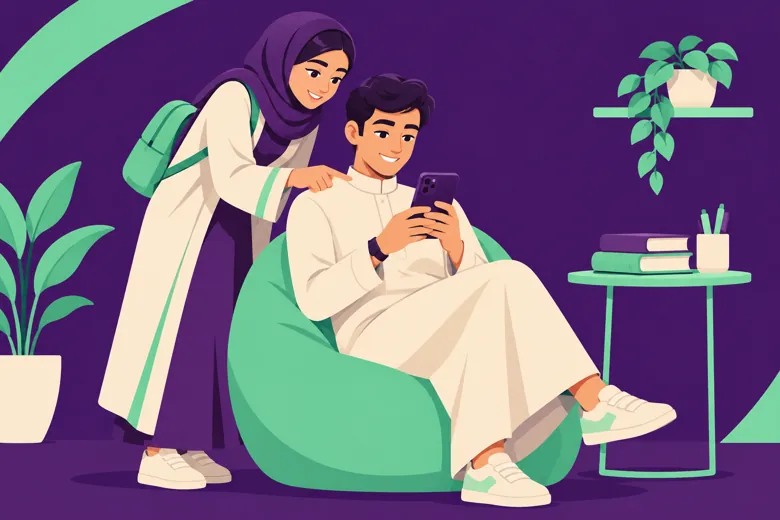
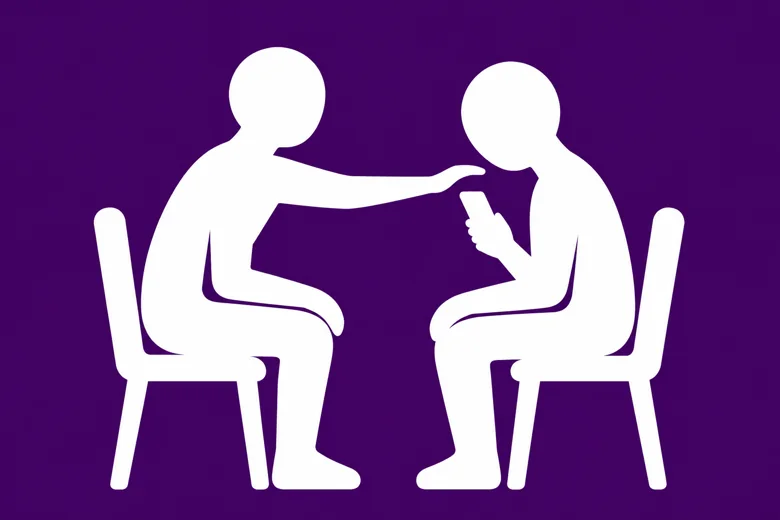
Rename app to Qum Dorous and simplify study illustration

diff --git a/web/admin.html b/web/admin.html
@@ -3,14 +3,14 @@
 <head>
 <meta charset="utf-8">
 <meta name="viewport" content="width=device-width, initial-scale=1">
-<title>لوحة إدارة قو مدرس</title>
+<title>لوحة إدارة قوم دروس</title>
 <link rel="icon" href="/icon-192.png">
 <link rel="stylesheet" href="/styles.css">
 <script type="module" src="/app.js"></script>
 </head>
 <body class="admin">
 <a class="skip" href="#app">تجاوز إلى المحتوى</a>
-<header><a href="/" class="brand"><img class="brand-mark" src="/icon-192.png" width="40" height="40" alt="">لوحة إدارة قو مدرس</a><nav id="nav" aria-label="التنقل"></nav></header>
+<header><a href="/" class="brand"><img class="brand-mark" src="/icon-192.png" width="40" height="40" alt="">لوحة إدارة قوم دروس</a><nav id="nav" aria-label="التنقل"></nav></header>
 <main id="app" tabindex="-1"><p role="status">جارٍ التحميل…</p></main>
 </body>
 </html>

diff --git a/web/common.js b/web/common.js
@@ -56,7 +56,7 @@ export function login(area, ready) {
   app.replaceChildren(el('div', { class: 'login-layout' },
     el('section', { class: 'hero login-hero' },
       area === 'student' && el('img', { class: 'study-illustration', src: '/study.webp', width: 780, height: 520, alt: '' }), el('img', { src: '/icon-192.png', alt: '', width: 88, height: 88 }),
-      el('h1', {}, area === 'admin' ? 'لوحة إدارة قو مدرس' : 'قو مدرس'),
+      el('h1', {}, area === 'admin' ? 'لوحة إدارة قوم دروس' : 'قوم دروس'),
       el('p', {}, area === 'admin' ? 'أدر المحتوى والحسابات من مكان واحد.' : 'موادك ومستنداتك واختباراتك في مكان واحد.')),
     form([el('h2', {}, 'تسجيل الدخول'),
       line('اسم المستخدم', input('username', { autocomplete: 'username', required: true, dir: 'ltr' })),

diff --git a/web/student.html b/web/student.html
@@ -3,7 +3,7 @@
 <head>
 <meta charset="utf-8">
 <meta name="viewport" content="width=device-width, initial-scale=1">
-<title>قو مدرس</title>
+<title>قوم دروس</title>
 <meta name="theme-color" content="#24154d">
 <link rel="manifest" href="/manifest.webmanifest">
 <link rel="icon" href="/icon-192.png">
@@ -12,7 +12,7 @@
 </head>
 <body class="student">
 <a class="skip" href="#app">تجاوز إلى المحتوى</a>
-<header><a href="/" class="brand"><img class="brand-mark" src="/icon-192.png" width="40" height="40" alt="">قو مدرس</a><nav id="nav" aria-label="التنقل"></nav></header>
+<header><a href="/" class="brand"><img class="brand-mark" src="/icon-192.png" width="40" height="40" alt="">قوم دروس</a><nav id="nav" aria-label="التنقل"></nav></header>
 <main id="app" tabindex="-1"><p role="status">جارٍ التحميل…</p></main>
 </body>
 </html>

diff --git a/web/sw.js b/web/sw.js
@@ -1,7 +1,7 @@
 self.addEventListener('fetch', event => {
   if (event.request.mode !== 'navigate') return;
   event.respondWith(fetch(event.request).catch(() => new Response(
-    '<!doctype html><html lang="ar" dir="rtl"><meta charset="utf-8"><meta name="viewport" content="width=device-width, initial-scale=1"><title>قو مدرس</title><h1>الاتصال غير متاح</h1><p>اتصل بالإنترنت ثم أعد فتح التطبيق.</p></html>',
+    '<!doctype html><html lang="ar" dir="rtl"><meta charset="utf-8"><meta name="viewport" content="width=device-width, initial-scale=1"><title>قوم دروس</title><h1>الاتصال غير متاح</h1><p>اتصل بالإنترنت ثم أعد فتح التطبيق.</p></html>',
     { headers: { 'Content-Type': 'text/html; charset=utf-8' } },
   )));
 });

diff --git a/android/src/school/dafaa/MainActivity.java b/android/src/school/dafaa/MainActivity.java
@@ -89,7 +89,7 @@ public final class MainActivity extends Activity {
         logo.setImageResource(getResources().getIdentifier("school_logo", "drawable", getPackageName()));
         card.addView(logo, new LinearLayout.LayoutParams(dp(72), dp(72)));
         TextView title = new TextView(this);
-        title.setText("قو مدرس");
+        title.setText("قوم دروس");
         title.setTextSize(30);
         title.setTextColor(Color.rgb(36,21,77));
         card.addView(title);
@@ -182,7 +182,7 @@ public final class MainActivity extends Activity {
         LinearLayout root = layout();
         web = new WebView(this);
         TextView loading = new TextView(this);
-        loading.setText("جارٍ فتح قو مدرس…");
+        loading.setText("جارٍ فتح قوم دروس…");
         loading.setPadding(dp(16), dp(12), dp(16), dp(8));
         loading.setAccessibilityLiveRegion(View.ACCESSIBILITY_LIVE_REGION_POLITE);
         root.addView(loading);

diff --git a/README.md b/README.md
@@ -1,4 +1,4 @@
-# قو مدرس المدرسية
+# قوم دروس المدرسية
 
 واجهة طالب عربية تعمل على الجوال، ولوحة ويب مستقلة للمالك والمساعدين. يدير الخادم الحسابات والاختبارات والمستندات والتذكيرات بقاعدة SQLite. واجهة الطالب في هذه النسخة تطبيق ويب للجوال قابل للإضافة إلى الشاشة الرئيسية من المتصفحات الداعمة عند تقديمه عبر HTTPS.
 
@@ -20,7 +20,7 @@
 
 اربط واجهتي الطالب والإدارة بنطاقين HTTPS منفصلين عبر وكيل عكسي. اضبط `SCHOOL_SECURE=1` وعناوين `STUDENT_ORIGIN` و`ADMIN_ORIGIN` دون شرطة مائلة أخيرة. يتطلب هذا الإعداد سر TOTP عشوائيًا بطول 20 بايت على الأقل مخزّنًا بصيغة hex في `OWNER_TOTP_HEX`. أضف المفتاح نفسه لتطبيق المصادقة بصيغة Base32 التي يدعمها تطبيقك، مع SHA-1 وستة أرقام وفترة 30 ثانية. احفظ ملفات الإعداد وقاعدة البيانات خارج Git وخذ نسخ SQLite متسقة باستخدام أوامر النسخ الاحتياطي الخاصة بها. شغّل نسخة خادم واحدة لكل قاعدة بيانات.
 
-## Android 0.4.0
+## Android 0.4.1
 
 افتح APK وثبّته على Android 6 أو أحدث، ثم أدخل عنوان HTTPS لواجهة الطلاب، مثل `https://students.school.example`. يتحقق التطبيق من استجابة مسار تطبيق الطلاب قبل فتح تسجيل الدخول. اختيار الصورة يستخدم منتقي ملفات النظام لصورة واحدة. لوحة الإدارة لها عنوانها المستقل وتفتح بالمتصفح.
 
